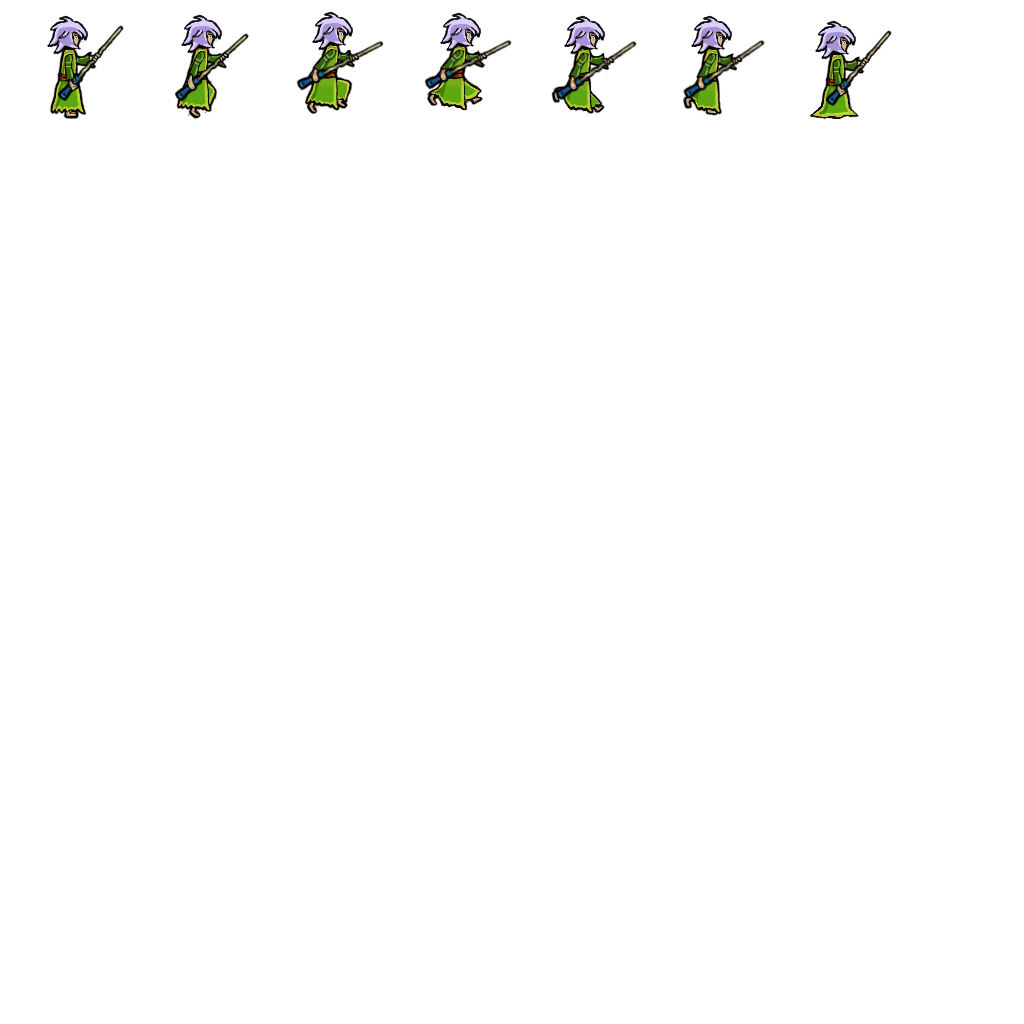
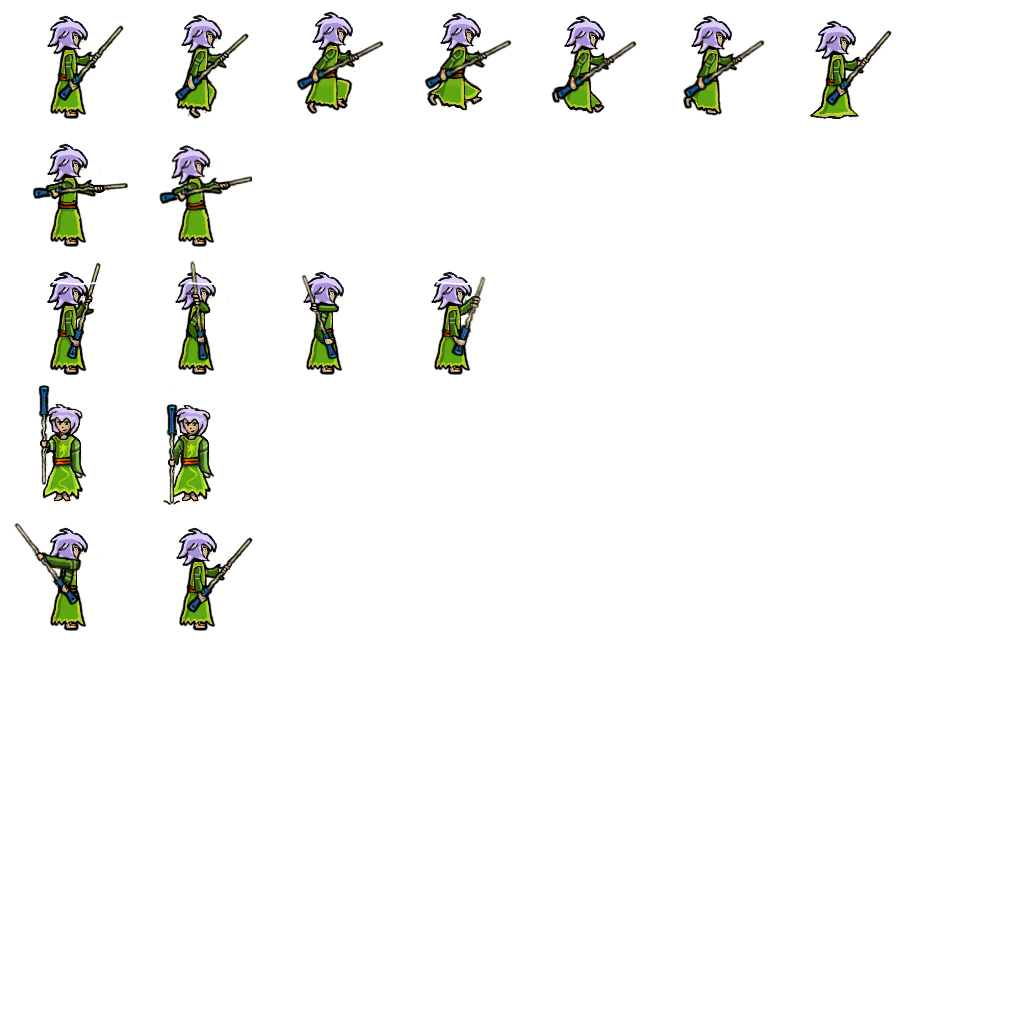
13 dec attackrörelser earth, fire, air och water

diff --git a/app/src/main/java/com/l2minigames/wanderfulworld/Assets.java b/app/src/main/java/com/l2minigames/wanderfulworld/Assets.java
@@ -49,6 +49,10 @@ public class Assets {
     public static Animation coinAnim;
     public static Animation bobJump;
     public static Animation mollyJump;
+    public static Animation mollyEarth;
+    public static Animation mollyFire;
+    public static Animation mollyAir;
+    public static Animation mollyWater;
     public static Animation bobFall;
     public static TextureRegion bobHit;
     public static Animation squirrelFly;
@@ -116,12 +120,42 @@ public class Assets {
         bobJump = new Animation(0.2f,
                                 new TextureRegion(items, 0, 128, 32, 32),
                                 new TextureRegion(items, 32, 128, 32, 32));
-        mollyJump = new Animation(0.1f,
+        mollyJump = new Animation(0.12f,
                 new TextureRegion(playeratlas, 128, 0, 128, 128),
                 new TextureRegion(playeratlas, 256, 0, 128, 128),
                 new TextureRegion(playeratlas, 384, 0, 128, 128),
+                new TextureRegion(playeratlas, 384, 0, 128, 128),
+                new TextureRegion(playeratlas, 384, 0, 128, 128),
+                new TextureRegion(playeratlas, 384, 0, 128, 128),
+                new TextureRegion(playeratlas, 384, 0, 128, 128),
                 new TextureRegion(playeratlas, 512, 0, 128, 128),
                 new TextureRegion(playeratlas, 640, 0, 128, 128));
+        mollyEarth = new Animation(0.12f,
+                new TextureRegion(playeratlas, 0, 384, 128, 128),
+                new TextureRegion(playeratlas, 128, 384, 128, 128),
+                new TextureRegion(playeratlas, 0, 384, 128, 128),
+                new TextureRegion(playeratlas, 128, 384, 128, 128),
+                new TextureRegion(playeratlas, 0, 384, 128, 128),
+                new TextureRegion(playeratlas, 128, 384, 128, 128),
+                new TextureRegion(playeratlas, 128, 384, 128, 128),
+                new TextureRegion(playeratlas, 128, 384, 128, 128));
+        mollyFire = new Animation(0.2f,
+                new TextureRegion(playeratlas, 0, 128, 128, 128),
+                new TextureRegion(playeratlas, 128, 128, 128, 128),
+                new TextureRegion(playeratlas, 128, 128, 128, 128),
+                new TextureRegion(playeratlas, 128, 128, 128, 128));
+        mollyWater = new Animation(0.4f,
+                new TextureRegion(playeratlas, 0, 512, 128, 128),
+                new TextureRegion(playeratlas, 128, 512, 128, 128));
+        mollyAir = new Animation(0.12f,
+                new TextureRegion(playeratlas, 0, 256, 128, 128),
+                new TextureRegion(playeratlas, 128, 256, 128, 128),
+                new TextureRegion(playeratlas, 256, 256, 128, 128),
+                new TextureRegion(playeratlas, 384, 256, 128, 128),
+                new TextureRegion(playeratlas, 0, 256, 128, 128),
+                new TextureRegion(playeratlas, 128, 256, 128, 128),
+                new TextureRegion(playeratlas, 256, 256, 128, 128),
+                new TextureRegion(playeratlas, 384, 256, 128, 128));
         bobFall = new Animation(0.2f,
                                 new TextureRegion(items, 64, 128, 32, 32),
                                 new TextureRegion(items, 96, 128, 32, 32));

diff --git a/app/src/main/java/com/l2minigames/wanderfulworld/GameScreen.java b/app/src/main/java/com/l2minigames/wanderfulworld/GameScreen.java
@@ -2,6 +2,7 @@ package com.l2minigames.wanderfulworld;
 
 import android.content.Context;
 import android.content.Intent;
+import android.util.Log;
 
 import java.util.List;
 
@@ -39,6 +40,8 @@ public class GameScreen extends GLScreen {
     int lastScore;
     String scoreString;
     SuperJumper mContext;
+    int touchDownX;
+    int touchDownY;
 
 
 
@@ -75,6 +78,8 @@ public class GameScreen extends GLScreen {
         jumpBounds = new Rectangle(0, 0, 640, 960);
         lastScore = 0;
         scoreString = "score: 0";
+        touchDownX = 0;
+        touchDownY = 0;
     }
 
     @Override
@@ -110,12 +115,22 @@ public class GameScreen extends GLScreen {
     private void updateRunning(float deltaTime) {
         List<TouchEvent> touchEvents = game.getInput().getTouchEvents();
         int len = touchEvents.size();
+
+
         for(int i = 0; i < len; i++) {
             TouchEvent event = touchEvents.get(i);
+            if (event.type == TouchEvent.TOUCH_DOWN){
+                touchDownX = event.x;
+                touchDownY = event.y;
+                Log.i("TOUCH", "IS TOUCH DOWN"+""+touchDownX+" "+touchDownY);
+            }
+
             if(event.type != TouchEvent.TOUCH_UP)
                 continue;
             
             touchPoint.set(event.x, event.y);
+
+
             guiCam.touchToWorld(touchPoint);
             
             if(OverlapTester.pointInRectangle(pauseBounds, touchPoint)) {
@@ -124,11 +139,34 @@ public class GameScreen extends GLScreen {
                 return;
             }
             if(OverlapTester.pointInRectangle(jumpBounds, touchPoint)) {
-                if (world.molly.state == world.molly.MOLLY_STATE_NORMAL){
 
+
+                ///Det är är punkten där man lyfter upp
+                Log.i("TOUCH", "TOUCH POSITION X: "+""+event.x);
+                Log.i("TOUCH", "TOUCH POSITION Y: "+""+event.y);
+                Log.i("TOUCH", "TOUCH DOWN POSITION X: "+""+touchDownX);
+                Log.i("TOUCH", "TOUCH DOWN POSITION Y: "+""+touchDownY);
+
+                if (touchDownY<event.y-200){
+                    world.molly.doEarth();
+                    ///ToDo Assets.playSound(Assets.jumpSound);
+                }else if (touchDownY>event.y+200){
+                    world.molly.doAir();
+                    ///ToDo Assets.playSound(Assets.jumpSound);
+                }else if (touchDownX<event.x-100){
+                    world.molly.doFire();
+                    ///ToDo Assets.playSound(Assets.jumpSound);
+                }else if (touchDownX>event.x+100){
+
+                    world.molly.doWater();
+                    ///ToDo Assets.playSound(Assets.jumpSound);
                 }
-                world.molly.jump();
-                Assets.playSound(Assets.jumpSound);
+
+                else if (world.molly.state == world.molly.MOLLY_STATE_NORMAL){
+                    world.molly.jump();
+                    Assets.playSound(Assets.jumpSound);
+                }
+
                 ///world.createBall();
                 world.update(deltaTime, game.getInput().getAccelX()); ///uppdaterar med accelerator!!!
                 return;

diff --git a/app/src/main/java/com/l2minigames/wanderfulworld/Molly.java b/app/src/main/java/com/l2minigames/wanderfulworld/Molly.java
@@ -15,10 +15,10 @@ public class Molly extends DynamicGameObject{
     public static final int MOLLY_STATE_WATER = 6;
     public static final int MOLLY_STATE_HIT = 7;
     public static final int MOLLY_STATE_DEAD = 8;
-    public static final float MOLLY_JUMP_VELOCITY = 16;
+    public static final float MOLLY_JUMP_VELOCITY = 18;
     public static final float MOLLY_MOVE_VELOCITY = 20;
-    public static final float MOLLY_WIDTH = 0.8f;
-    public static final float MOLLY_HEIGHT = 0.8f;
+    public static final float MOLLY_WIDTH = 1f;
+    public static final float MOLLY_HEIGHT = 1f;
 
     int state;
     float stateTime;
@@ -30,9 +30,9 @@ public class Molly extends DynamicGameObject{
     }
 
     public void update(float deltaTime) {
-        velocity.add(World.gravity.x * deltaTime, World.gravity.y * deltaTime);
+        if (state==MOLLY_STATE_JUMP){velocity.add(World.gravity.x * deltaTime, World.gravity.y * deltaTime);}
         position.add(velocity.x * deltaTime, velocity.y * deltaTime);
-        bounds.lowerLeft.set(position).sub(bounds.width / 2, bounds.height / 2);
+        bounds.lowerLeft.set(position).sub(bounds.width / 2, bounds.height / 2+1f);
 ///Sätt state = normal om höjdled = 0 och inget annat state är aktivt
         if(velocity.y == 0 && state != MOLLY_STATE_BEFORE_JUMP && state !=MOLLY_STATE_EARTH && state !=MOLLY_STATE_FIRE && state !=MOLLY_STATE_AIR && state !=MOLLY_STATE_WATER) {
             if(state != MOLLY_STATE_NORMAL) {
@@ -58,22 +58,22 @@ public class Molly extends DynamicGameObject{
         stateTime = 0;
     }
 
-    public void doEARTH() {
+    public void doEarth() {
 
         state = MOLLY_STATE_EARTH;
         stateTime = 0;
     }
-    public void doFIRE() {
+    public void doFire() {
 
         state = MOLLY_STATE_FIRE;
         stateTime = 0;
     }
-    public void doAIR() {
+    public void doAir() {
 
         state = MOLLY_STATE_AIR;
         stateTime = 0;
     }
-    public void doWATER() {
+    public void doWater() {
 
         state = MOLLY_STATE_WATER;
         stateTime = 0;

diff --git a/app/src/main/java/com/l2minigames/wanderfulworld/World.java b/app/src/main/java/com/l2minigames/wanderfulworld/World.java
@@ -20,10 +20,11 @@ public class World {
     public static final int WORLD_STATE_RUNNING = 0;
     public static final int WORLD_STATE_NEXT_LEVEL = 1;
     public static final int WORLD_STATE_GAME_OVER = 2;
-    public static final Vector2 gravity = new Vector2(0, -16); ///Tidigare 0,-12
+    public static final Vector2 gravity = new Vector2(0, -30); ///Tidigare 0,-12
 
     public final Bob bob;
     public final Molly molly;
+    public final Ground ground;
     public final List<Platform> platforms;
     public final List<Spring> springs;
     public final List<Squirrel> squirrels;
@@ -39,6 +40,7 @@ public class World {
     public World(WorldListener listener) {
         this.bob = new Bob(5, 1);
         this.molly = new Molly(3, 19);
+        this.ground = new Ground(3,17);
         this.platforms = new ArrayList<Platform>();
         this.springs = new ArrayList<Spring>();
         this.squirrels = new ArrayList<Squirrel>();
@@ -101,6 +103,9 @@ public class World {
         updatePlatforms(deltaTime);
         updateSquirrels(deltaTime);
         updateCoins(deltaTime);
+
+        checkGround();
+
         if (bob.state != Bob.BOB_STATE_HIT)
             checkCollisions();
         checkGameOver();
@@ -119,6 +124,7 @@ public class World {
         molly.update(deltaTime);
 
     }
+
 
     private void updatePlatforms(float deltaTime) {
         int len = platforms.size();
@@ -219,6 +225,13 @@ public class World {
     private void checkCastleCollisions() {
         if (OverlapTester.overlapRectangles(castle.bounds, bob.bounds)) {
             state = WORLD_STATE_NEXT_LEVEL;
+        }
+    }
+    private void checkGround() {
+        if (OverlapTester.overlapRectangles(ground.bounds, molly.bounds)) {
+            molly.state = molly.MOLLY_STATE_NORMAL;
+            molly.position.y=19;
+            molly.velocity.y=0;
         }
     }
 

diff --git a/app/src/main/java/com/l2minigames/wanderfulworld/WorldRenderer.java b/app/src/main/java/com/l2minigames/wanderfulworld/WorldRenderer.java
@@ -107,6 +107,18 @@ public class WorldRenderer {
             case Molly.MOLLY_STATE_BEFORE_JUMP:
                 keyFrame = Assets.mollyJump.getKeyFrame(world.molly.stateTime, Animation.ANIMATION_LOOPING);
                 break;
+            case Molly.MOLLY_STATE_EARTH:
+                keyFrame = Assets.mollyEarth.getKeyFrame(world.molly.stateTime, Animation.ANIMATION_LOOPING);
+                break;
+            case Molly.MOLLY_STATE_FIRE:
+                keyFrame = Assets.mollyFire.getKeyFrame(world.molly.stateTime, Animation.ANIMATION_LOOPING);
+                break;
+            case Molly.MOLLY_STATE_AIR:
+                keyFrame = Assets.mollyAir.getKeyFrame(world.molly.stateTime, Animation.ANIMATION_LOOPING);
+                break;
+            case Molly.MOLLY_STATE_WATER:
+                keyFrame = Assets.mollyWater.getKeyFrame(world.molly.stateTime, Animation.ANIMATION_LOOPING);
+                break;
             case Molly.MOLLY_STATE_HIT:
             default:
                 keyFrame = Assets.playerNormal;
@@ -192,8 +204,12 @@ public class WorldRenderer {
     }
     private void renderGround() {
 
+        ///Kollar mot world.ground
+
+        if (world.ground.type.equals("normal")){batcher.drawSprite(2, 16, 4, 1, Assets.itemsLog);}
+
         if (mContext.world.equals("wanderful world")) {
-            batcher.drawSprite(2, 16, 4, 1, Assets.itemsLog);
+           /// batcher.drawSprite(2, 16, 4, 1, Assets.itemsLog);
             batcher.drawSprite(6, 16, 4, 1, Assets.itemsLog);
             batcher.drawSprite(10, 16, 4, 1, Assets.itemsLog);
             batcher.drawSprite(14, 16, 4, 1, Assets.itemsLog);

diff --git a/app/src/main/java/com/l2minigames/wanderfulworld/Ground.java b/app/src/main/java/com/l2minigames/wanderfulworld/Ground.java
@@ -1,0 +1,16 @@
+package com.l2minigames.wanderfulworld;
+
+import com.l2minigames.framework.GameObject;
+
+/**
+ * Created by umyhlarsle on 2016-12-12.
+ */
+public class Ground extends GameObject {
+    public static float GROUND_WIDTH = 0.3f;
+    public static float GROUND_HEIGHT = 0.3f;
+    String type = "normal";
+
+    public Ground(float x, float y) {
+        super(x, y, GROUND_WIDTH, GROUND_HEIGHT);
+    }
+}
